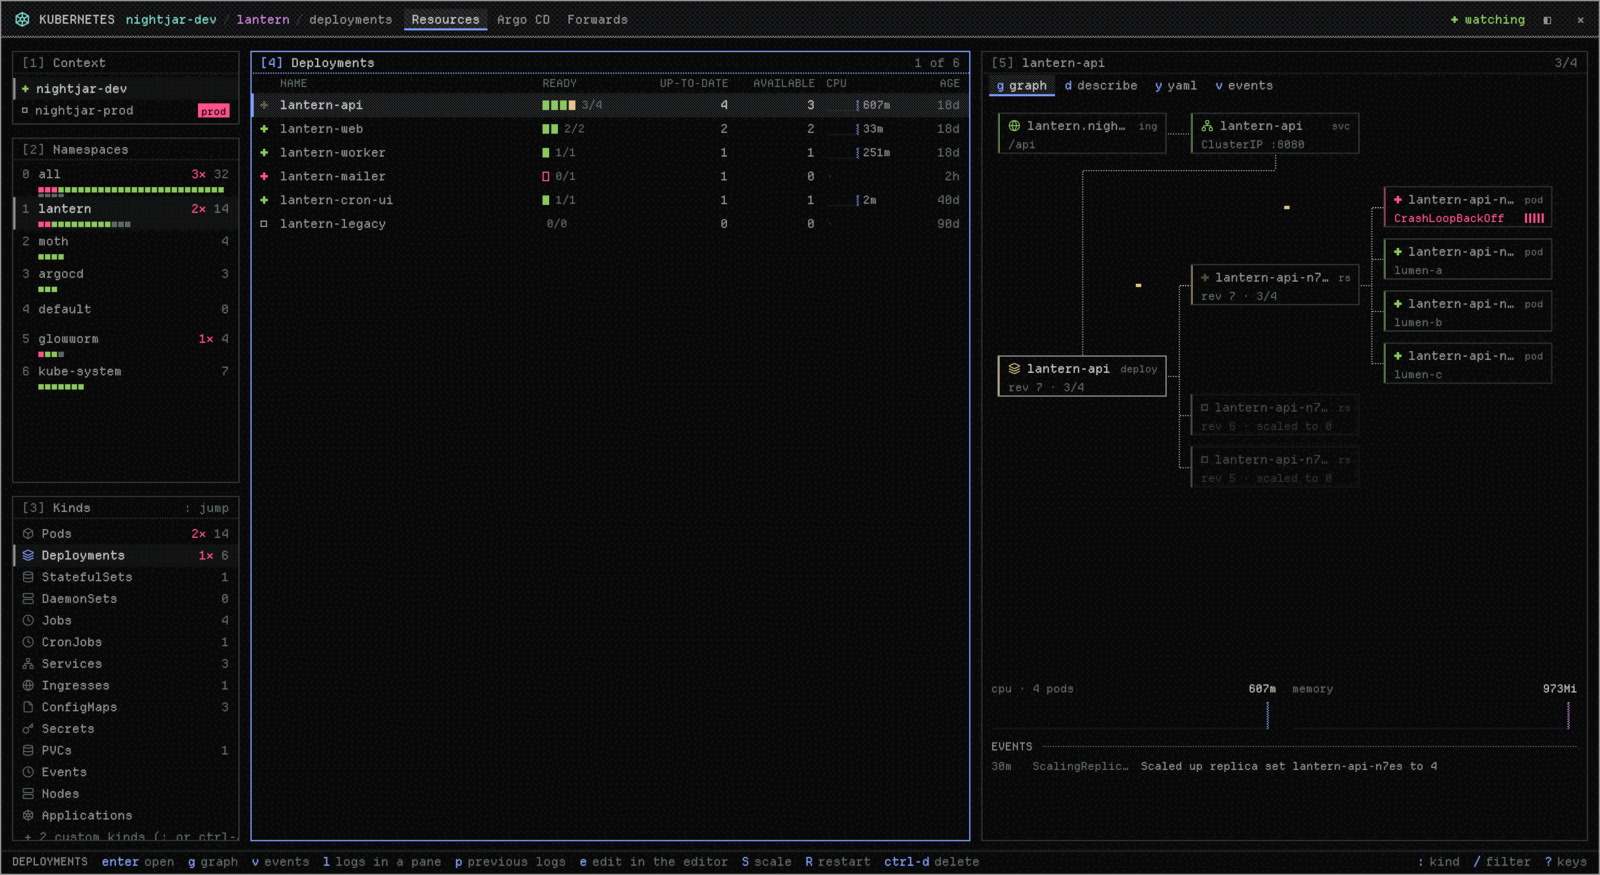
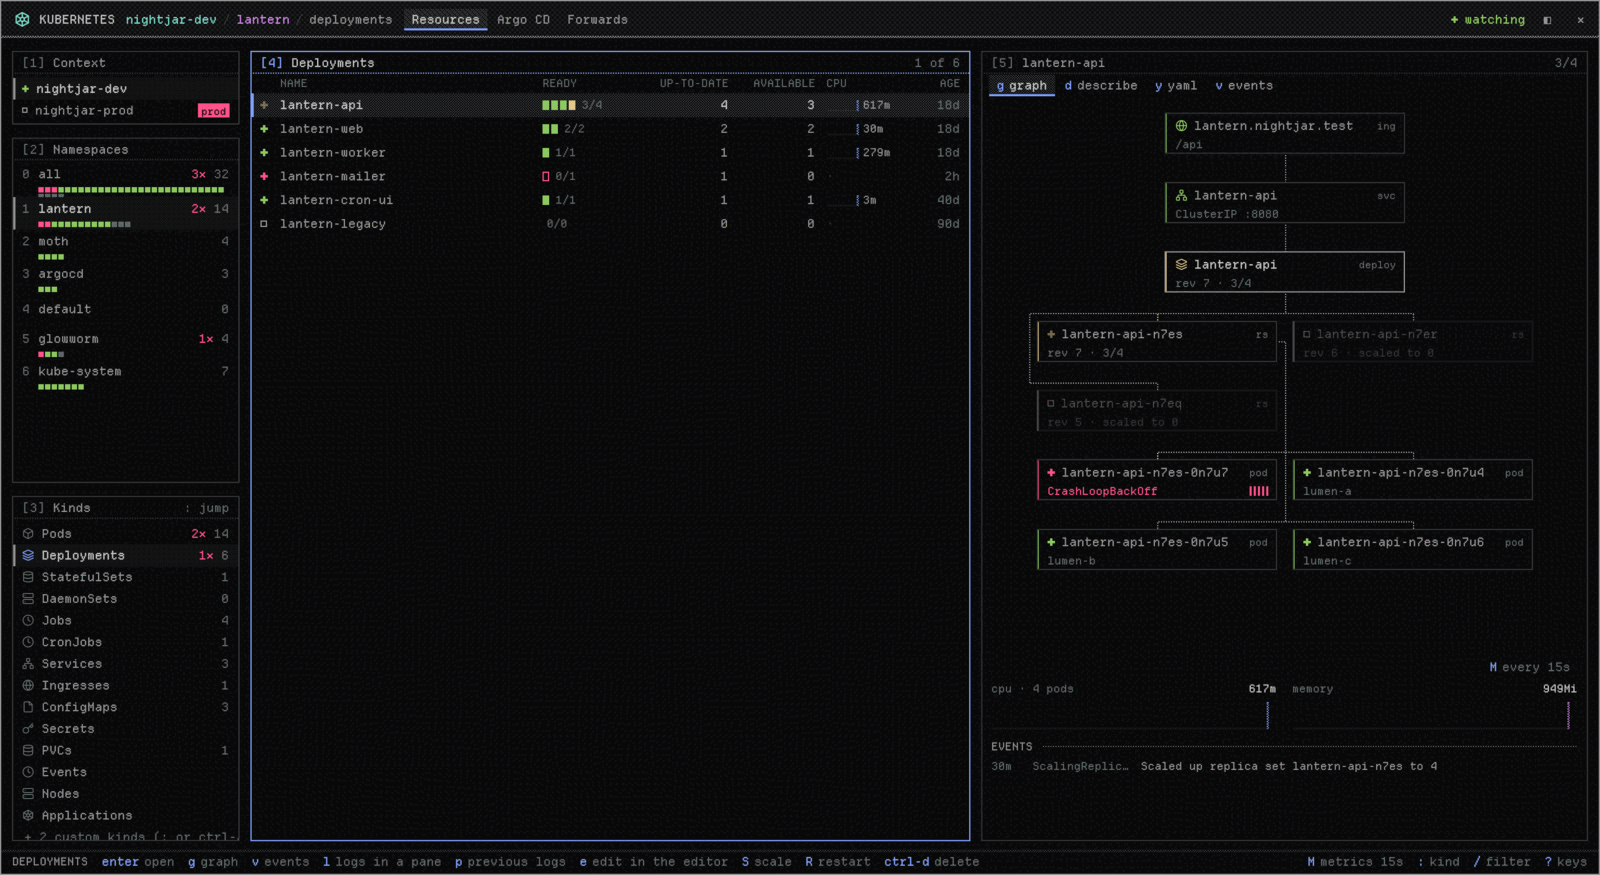
docs: the graph top to bottom, metrics pace, panels that resize: readme keys and pictures retaken; shots: no welcome card, no kept sizes, the failing pod picked

diff --git a/test/view.test.ts b/test/view.test.ts
@@ -461,7 +461,7 @@ describe("the metrics' pace", () => {
     await press("M");
     expect(v.menu?.title).toBe("read cpu and memory every");
     expect(v.menu?.rows.map((r) => r.label)).toEqual(["every 2s", "every 5s", "every 15s  ·  now", "every 30s", "paused"]);
-    expect(v.menu?.rows[0]?.sub).toContain("metrics-server measures about every 15s");
+    expect(v.menu?.rows[0]?.sub).toContain("metrics-server measures ~every 15s");
     await press("1");
     expect(v.data.metricsEvery).toBe(2);
     expect(v.data.topPods.every).toBe(2000);

diff --git a/mod/metrics-pace.ts b/mod/metrics-pace.ts
@@ -18,7 +18,7 @@ import { SETTINGS_PATH, withMetrics } from "./settings.ts";
 import type { Menu } from "./state.ts";
 
 /** What metrics-server's own pace means for a faster one. */
-const RESOLUTION = "metrics-server measures about every 15s: faster reads often answer the same numbers";
+const RESOLUTION = "metrics-server measures ~every 15s: often the same numbers";
 
 /** M: the paces, the one in force marked. */
 export function paceMenu(v: K8s): Menu {

diff --git a/README.md b/README.md
@@ -18,7 +18,18 @@ the keyboard first and the pointer too. Its keys follow k9s's where they fit.
 - **The selected row**: its graph, read the way traffic flows (ingress →
   service → deployment → replica sets → pods, old replica sets faded), each
   pod with its CPU line and restarts; describe and YAML in a read-only code
-  view; its events.
+  view; its events. In a panel taller than wide (the detail column) the
+  graph runs top to bottom, a row per rank with whole names; in a wide, low
+  one (under the table, a wide pane) left to right; `O` turns it. A graph
+  larger than its panel drags with the pointer, or `H` `J` `K` `L`.
+- **Metrics**: CPU and memory every 15 s by default; `M` (or the chip by the
+  lines) reads them every 2 s, 5 s, 30 s or pauses them, kept in the
+  settings. metrics-server itself measures about every 15 s: a faster read
+  that answers its last numbers again adds nothing to the lines, and the
+  chip says "same numbers".
+- **Panels**: drag the gap between two panels to resize them (a double click
+  puts it back), or `+` and `-` on the panel with the keys; the sizes are
+  kept, a window's and a pane's apart.
 - **Argo CD**: the applications (from the cluster's `applications.argoproj.io`
   objects: no `argocd` CLI needed), each one's resource tree as Argo's web UI
   draws it (out-of-sync and missing resources outlined and flagged), its
@@ -101,7 +112,8 @@ Settings, all optional, in `~/.config/herdr-app/k8s/settings.json`:
   "kubectl": "kubectl",
   "readonly": ["my-prod-context"],
   "prod": "prod|prd|production|live",
-  "favourites": ["my-app", "other"]
+  "favourites": ["my-app", "other"],
+  "metrics": 15
 }
 ```
 
@@ -123,8 +135,16 @@ Settings, all optional, in `~/.config/herdr-app/k8s/settings.json`:
 | `c` `u` `D` | cordon, uncordon, drain a node |
 | `ctrl-d` `ctrl-k` | delete, kill |
 | `[` `]`, `tab` | the tabs, the panels |
+| `+` `-` | the panel with the keys wider or narrower (or drag the gap) |
+| `M` | metrics: read every 2s, 5s, 15s, 30s, or paused |
 | `ctrl-t` | into a pane / out to a window |
 | `?` | every key |
+
+A graph (the detail panel's, Argo's tree), with the keys there: `j` `k` `h`
+`l` walk the boxes the way the graph reads, `H` `J` `K` `L` move it (so does
+a drag, or the wheel), `c` centres the selected box (or a double click on
+the empty graph), `O` turns the workload graph (top to bottom / left to
+right, kept), `enter` opens the box's object.
 
 Argo CD: `S` sync, `r` refresh (`R` hard), `D` diff, `h` history, `B` roll
 back to the picked revision, `o` the repository.
